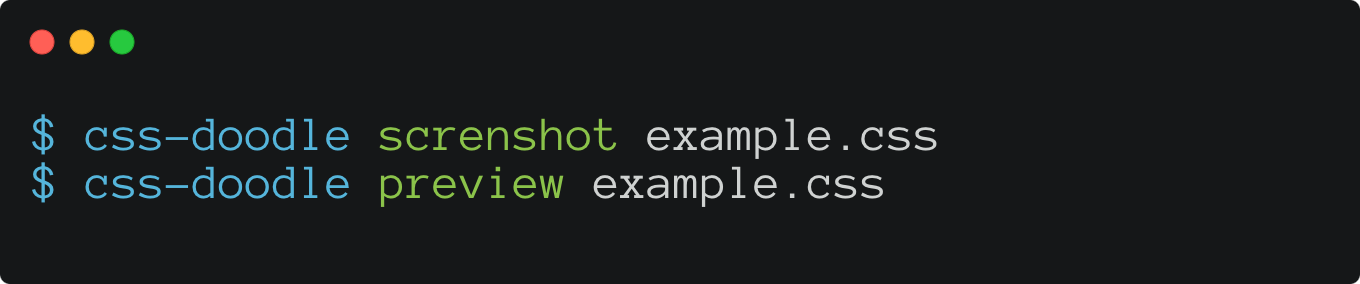
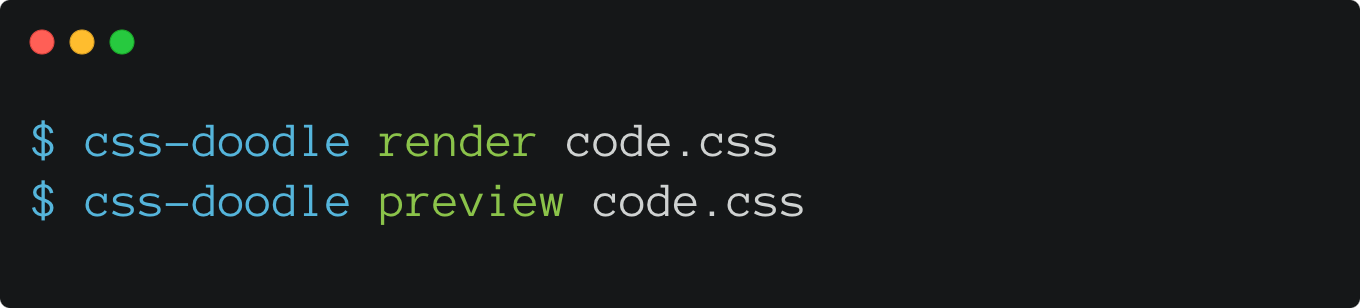
Us a better command name `render` for image generation

diff --git a/bin/index.js b/bin/index.js
@@ -23,7 +23,6 @@ function read(path) {
     return { content, error };
 }
 
-
 async function handleGenerate(source, options) {
     let { content, error } = read(source);
     if (error) {
@@ -89,7 +88,8 @@ program
     .version(pkg.version);
 
 program
-    .command('screenshot')
+    .command('render')
+    .description('generate an image from the CSS Doodle source file')
     .argument('<source>', 'the CSS Doodle source file used to generate the image')
     .option('-o, --output <output>', 'custom filename of the generated image')
     .option('-x, --scale <scale>', 'scale factor of the generated image, defaults to 1')

diff --git a/README.md b/README.md
@@ -22,17 +22,17 @@ Options:
   -h, --help                     display help for command
 
 Commands:
-  screenshot [options] <source>
+  render [options] <source>
   preview [options] <source>     open a window to preview the CSS Doodle file
   parse <source>                 print the parsed tokens, helped to debug on development
   config                         display/set the configuration
   help [command]                 display help for command
 ```
 
-## screenshot
+## render
 
 ```bash
-$ css-doodle screenshot code.css
+$ css-doodle render code.css
 ```
 
 #### -o, --output
@@ -40,7 +40,7 @@ $ css-doodle screenshot code.css
 Custom filename of the generated image.
 
 ```bash
-$ css-doodle screenshot code.css -o result.png
+$ css-doodle render code.css -o result.png
 ```
 
 #### -x, --scale
@@ -48,7 +48,7 @@ $ css-doodle screenshot code.css -o result.png
 Scale factor of the generated image, defaults to 1.
 
 ```bash
-$ css-doodle screenshot code.css -x 4
+$ css-doodle render code.css -x 4
 ```
 
 ## preview
@@ -79,7 +79,7 @@ $ css-doodle config
 
 #### browserPath
 
-Use a custom browser to preview and screenshot.
+Use a custom browser to preview and generate images.
 
 ```bash
 $ css-doodle config browserPath /Applications/Google\ Chrome.app/Contents/MacOS/Google\ Chrome
